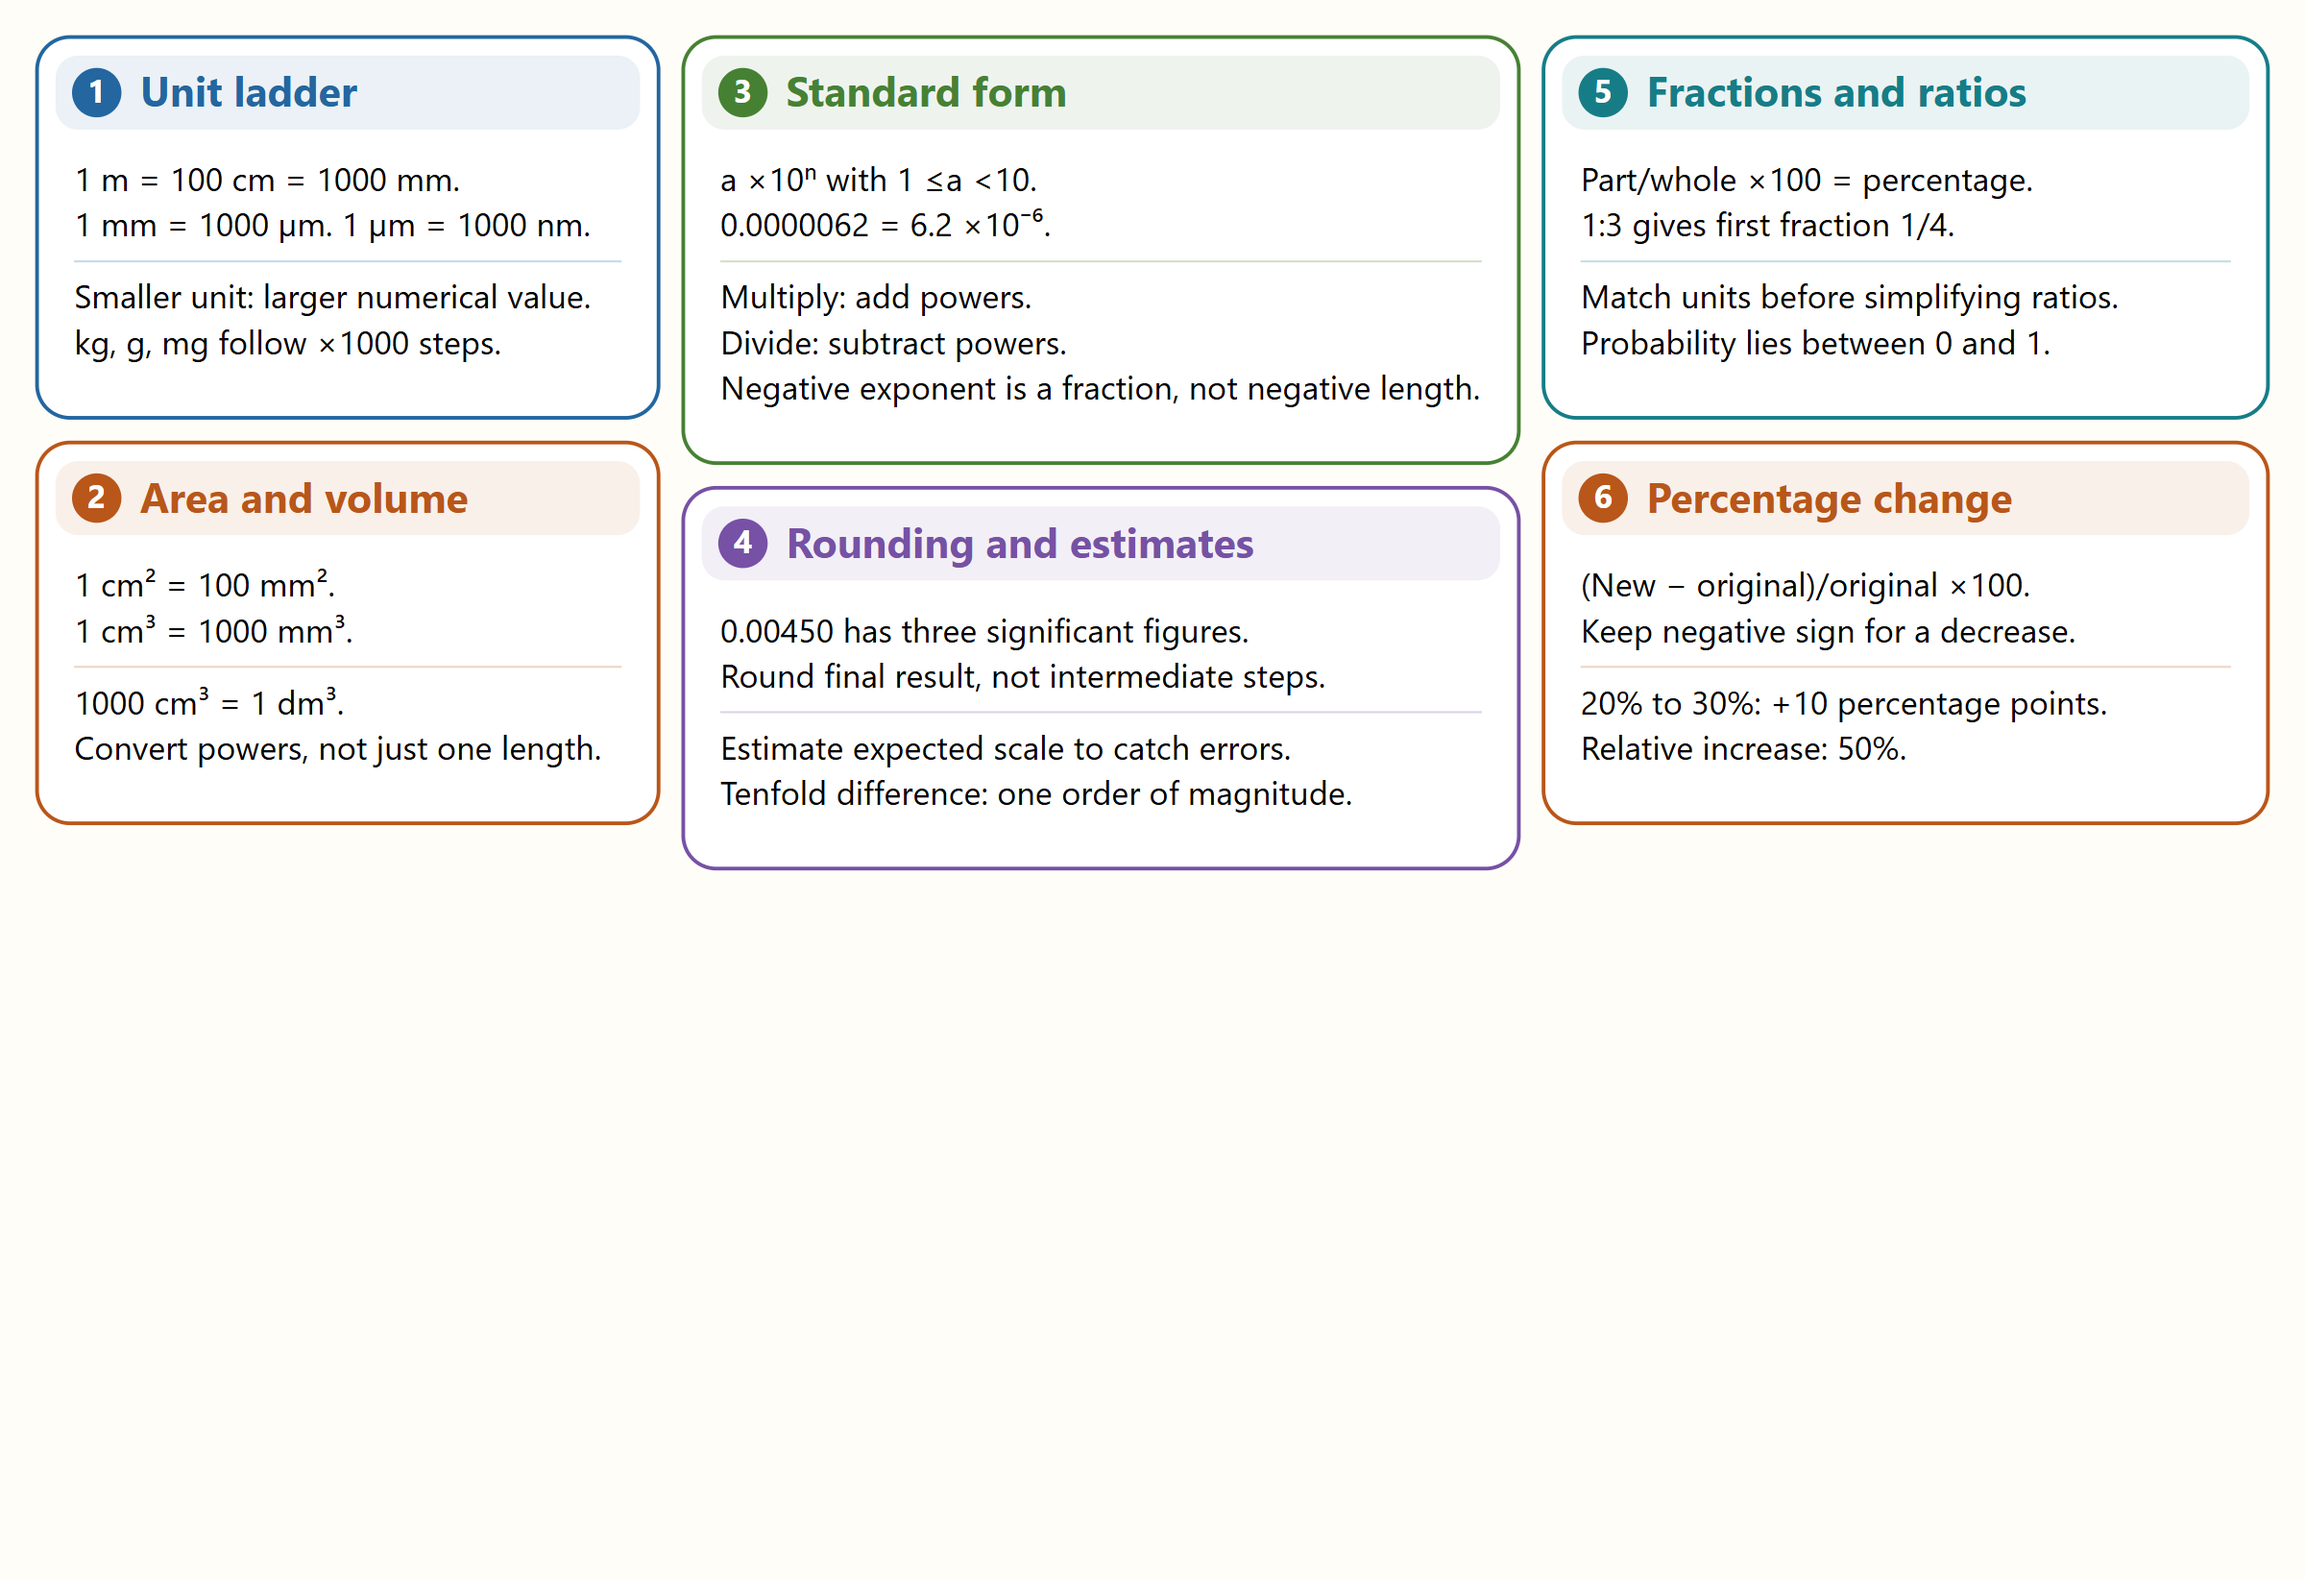
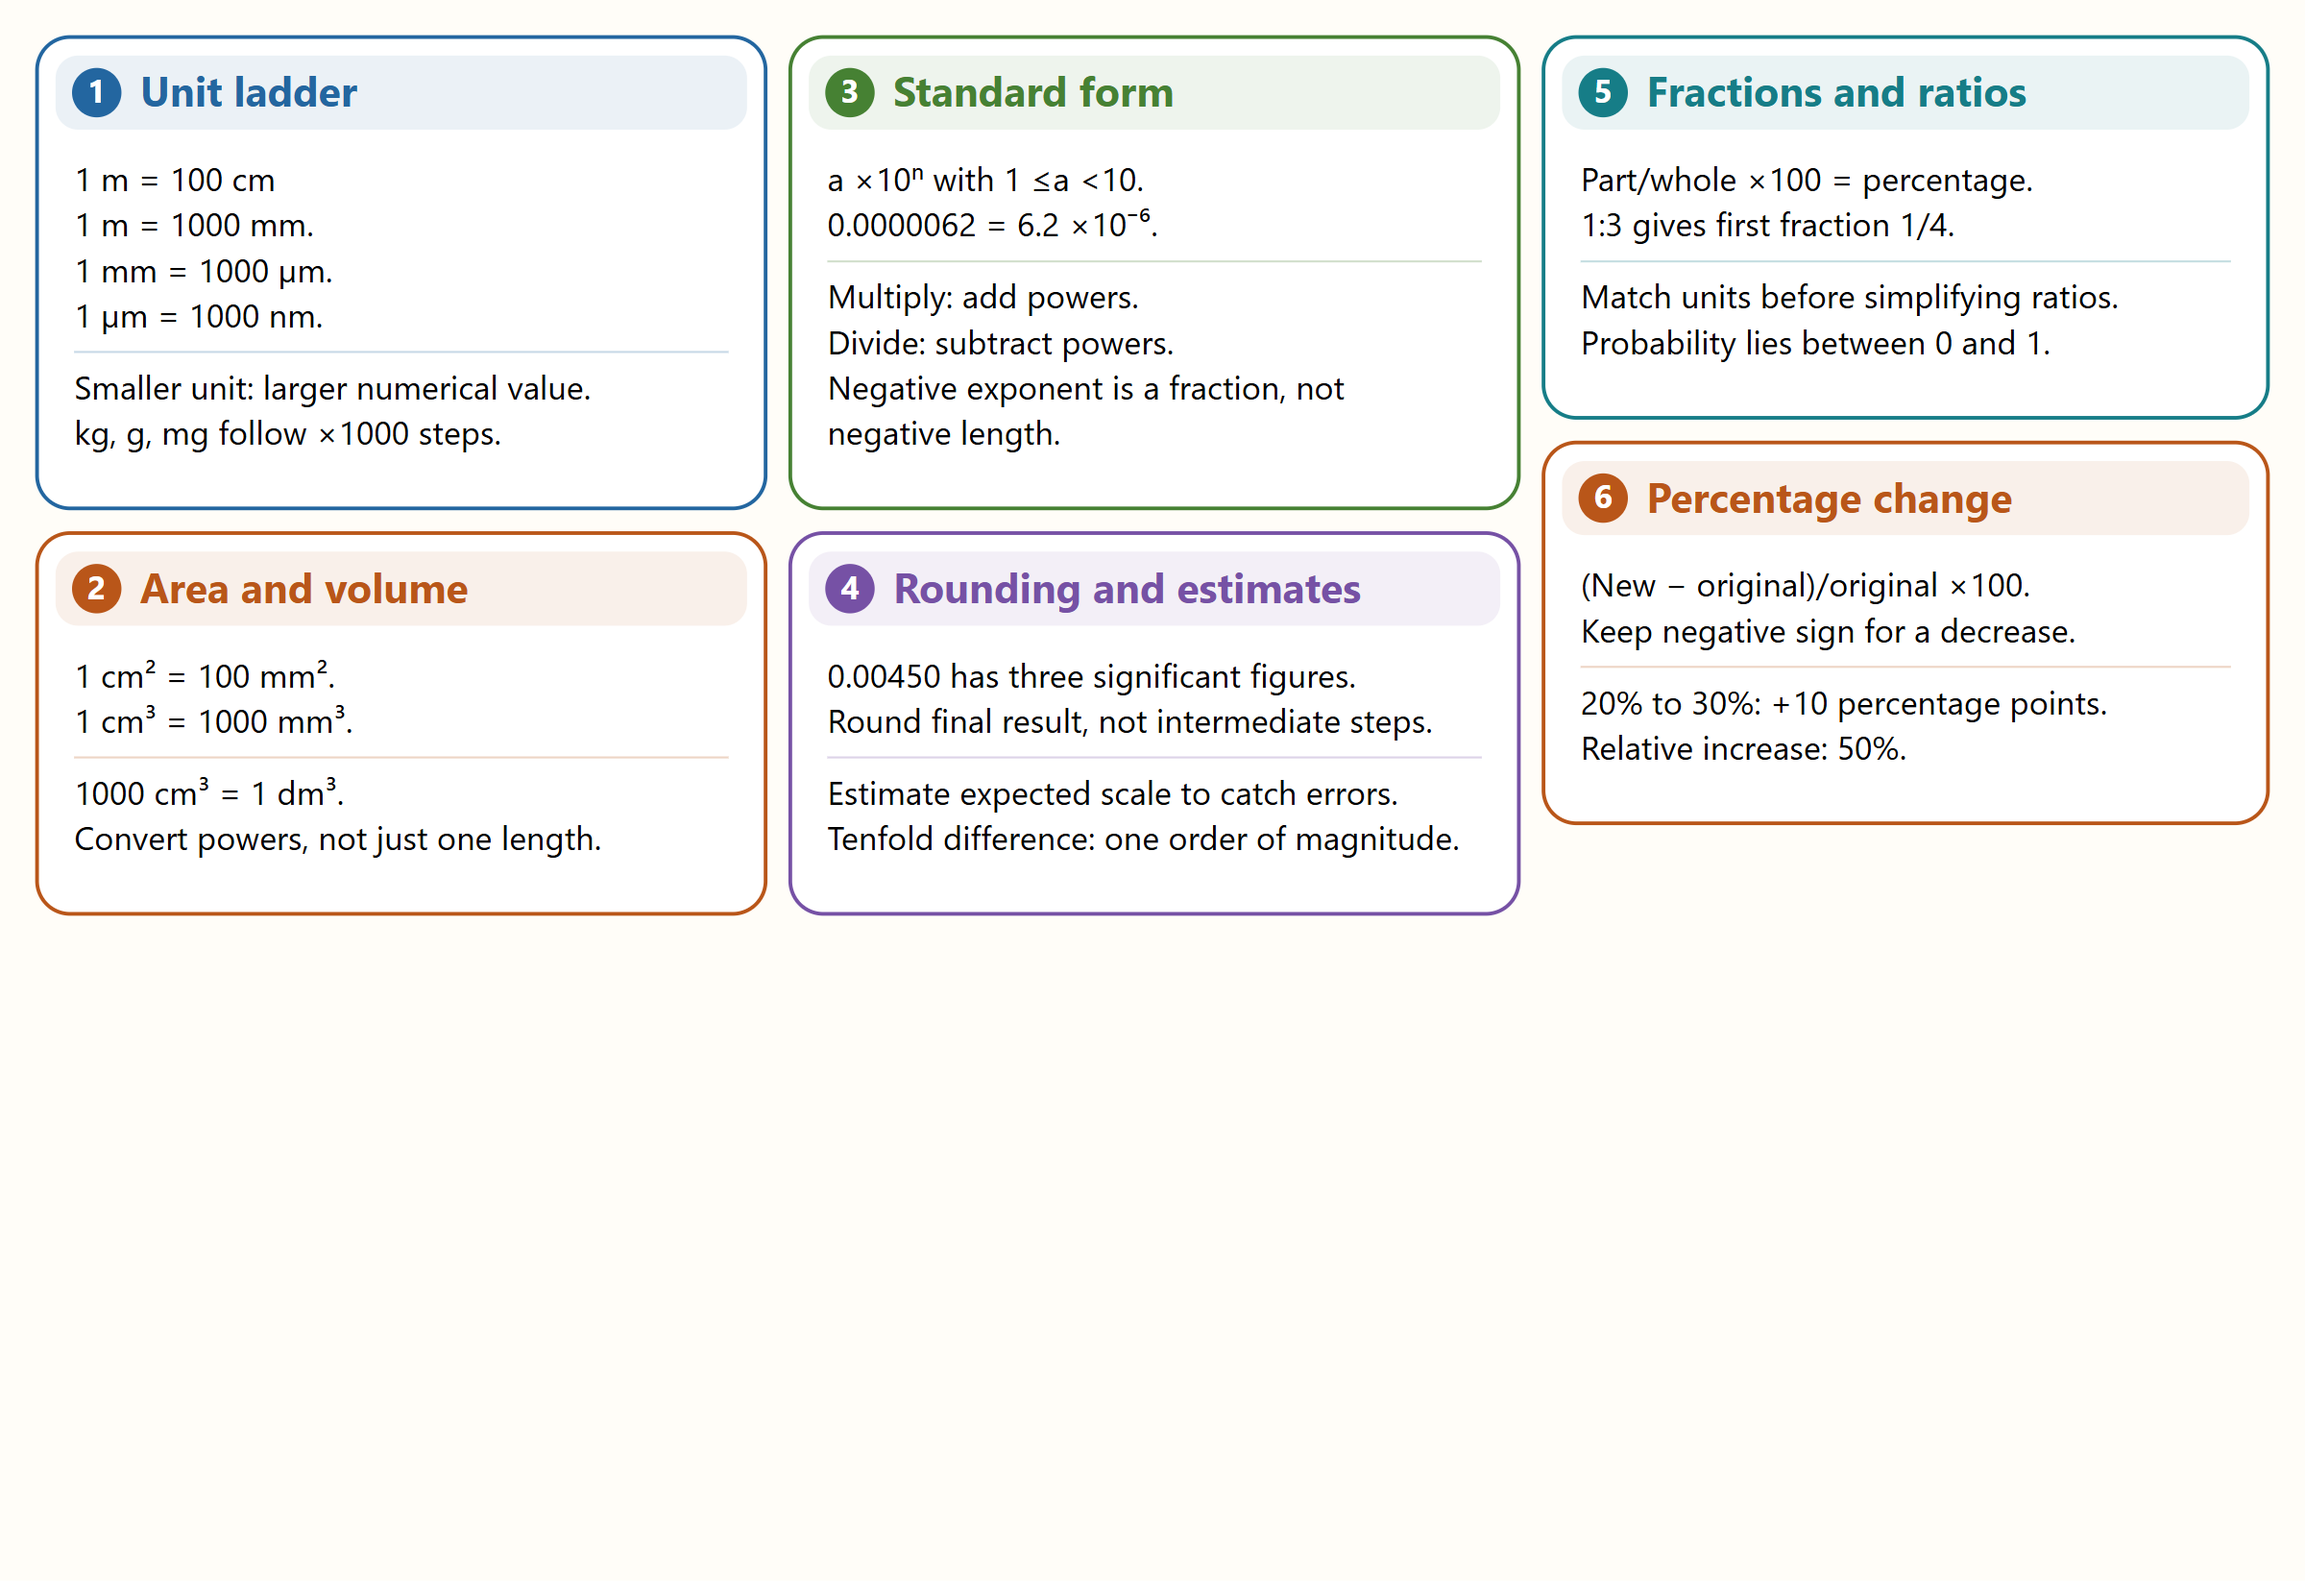
fix: review biology 09 mind-map equation layouts

Changed region(s): [[0.0, 0.0, 0.6562, 0.5887]]

diff --git a/library/resources/biology-aqa-mathematical-requirements-02-calculations-and-inheritance.html b/library/resources/biology-aqa-mathematical-requirements-02-calculations-and-inheritance.html
@@ -1,6 +1,7 @@
 <!doctype html><html lang="en"><head><meta charset="utf-8"><meta name="viewport" content="width=device-width, initial-scale=1"><title>Calculations and inheritance mind map · Study Buddy</title><link rel="stylesheet" href="../style.css"><link rel="stylesheet" href="../mindmaps.css"><script defer src="../mindmaps.js"></script></head><body class="inner-page subject-biology"><a class="skip" href="#main">Skip to content</a><header><a class="brand" href="../../index.html"><span class="brand-mark">G</span><span class="brand-name">Study Buddy</span></a><span class="exam">Summer 2027</span></header><div class="layout"><aside><p class="eyebrow">YOUR SUBJECTS</p><nav aria-label="Subjects"><a class="" href="../../Computer%20Science%20-%20AQA/index.html">Computer Science</a><a class="" href="../../English%20Language%20-%20Eduqas/index.html">English Language</a><a class="" href="../../English%20Literature%20-%20Eduqas/index.html">English Literature</a><a class="" href="../../Maths%20-%20Edexcel/index.html">Maths</a><a class="" href="../../Geography%20-%20OCR%20A/index.html">Geography</a><a class="" href="../../French%20-%20AQA/index.html">French</a><a class="selected" href="../../Biology%20-%20AQA/index.html">Biology</a><a class="" href="../../Chemistry%20-%20AQA/index.html">Chemistry</a><a class="" href="../../Physics%20-%20AQA/index.html">Physics</a></nav><p class="side-note">Build understanding.<br>Practise precise answers.</p></aside><main id="main"><nav class="breadcrumbs" aria-label="Breadcrumb"><a href="../../index.html">Subjects</a><span aria-hidden="true"> / </span><a href="../../Biology%20-%20AQA/index.html">Biology</a><span aria-hidden="true"> / </span><a href="../../Biology%20-%20AQA/09%20-%20Mathematical%20requirements/index.html">Mathematical requirements</a><span aria-hidden="true"> / </span><a href="biology-aqa-mathematical-requirements-mind-maps.html">Mind maps</a></nav><div class="reader-tools"><a href="biology-aqa-mathematical-requirements-mind-maps.html">← Back to mind maps</a><button onclick="window.print()">Print</button></div><h1>Calculations and inheritance</h1><button type="button" class="mindmap-open" data-mindmap-index="2">Open full screen</button><figure class="mindmap-view"><img src="../../Biology%20-%20AQA/09%20-%20Mathematical%20requirements/Mind%20Maps/02-calculations-and-inheritance.svg" alt="Calculations and inheritance revision map"></figure><details class="mindmap-text" id="text-version"><summary>Text version</summary><article class="reading"><h1>Magnification, rates and inheritance</h1>
 <h2>Image sizes</h2>
-<p>M = image/actual. Actual = image/M.</p>
+<p>M = image/actual.</p>
+<p>Actual = image/M.</p>
 <p>Use same unit for both sizes.</p>
 <p>36 mm at ×600: 60 µm actual.</p>
 <p>Magnification has no unit.</p>
@@ -10,7 +11,8 @@
 <p>Actual cell = 18 µm.</p>
 <p>Resizing preserves ratios when bar resizes too.</p>
 <h2>Rate calculations</h2>
-<p>Change/time; state time basis.</p>
+<p>Change/time</p>
+<p>state time basis.</p>
 <p>12 cm³ in 4 min: 3 cm³ min⁻¹.</p>
 <p>Same-endpoint rate proxy: 1/time.</p>
 <p>25 s gives 0.040 s⁻¹.</p>

diff --git a/library/resources/biology-aqa-mathematical-requirements-01-units-and-proportions.html b/library/resources/biology-aqa-mathematical-requirements-01-units-and-proportions.html
@@ -1,7 +1,9 @@
 <!doctype html><html lang="en"><head><meta charset="utf-8"><meta name="viewport" content="width=device-width, initial-scale=1"><title>Units and proportions mind map · Study Buddy</title><link rel="stylesheet" href="../style.css"><link rel="stylesheet" href="../mindmaps.css"><script defer src="../mindmaps.js"></script></head><body class="inner-page subject-biology"><a class="skip" href="#main">Skip to content</a><header><a class="brand" href="../../index.html"><span class="brand-mark">G</span><span class="brand-name">Study Buddy</span></a><span class="exam">Summer 2027</span></header><div class="layout"><aside><p class="eyebrow">YOUR SUBJECTS</p><nav aria-label="Subjects"><a class="" href="../../Computer%20Science%20-%20AQA/index.html">Computer Science</a><a class="" href="../../English%20Language%20-%20Eduqas/index.html">English Language</a><a class="" href="../../English%20Literature%20-%20Eduqas/index.html">English Literature</a><a class="" href="../../Maths%20-%20Edexcel/index.html">Maths</a><a class="" href="../../Geography%20-%20OCR%20A/index.html">Geography</a><a class="" href="../../French%20-%20AQA/index.html">French</a><a class="selected" href="../../Biology%20-%20AQA/index.html">Biology</a><a class="" href="../../Chemistry%20-%20AQA/index.html">Chemistry</a><a class="" href="../../Physics%20-%20AQA/index.html">Physics</a></nav><p class="side-note">Build understanding.<br>Practise precise answers.</p></aside><main id="main"><nav class="breadcrumbs" aria-label="Breadcrumb"><a href="../../index.html">Subjects</a><span aria-hidden="true"> / </span><a href="../../Biology%20-%20AQA/index.html">Biology</a><span aria-hidden="true"> / </span><a href="../../Biology%20-%20AQA/09%20-%20Mathematical%20requirements/index.html">Mathematical requirements</a><span aria-hidden="true"> / </span><a href="biology-aqa-mathematical-requirements-mind-maps.html">Mind maps</a></nav><div class="reader-tools"><a href="biology-aqa-mathematical-requirements-mind-maps.html">← Back to mind maps</a><button onclick="window.print()">Print</button></div><h1>Units and proportions</h1><button type="button" class="mindmap-open" data-mindmap-index="1">Open full screen</button><figure class="mindmap-view"><img src="../../Biology%20-%20AQA/09%20-%20Mathematical%20requirements/Mind%20Maps/01-units-and-proportions.svg" alt="Units and proportions revision map"></figure><details class="mindmap-text" id="text-version"><summary>Text version</summary><article class="reading"><h1>Units, standard form and proportions</h1>
 <h2>Unit ladder</h2>
-<p>1 m = 100 cm = 1000 mm.</p>
-<p>1 mm = 1000 µm. 1 µm = 1000 nm.</p>
+<p>1 m = 100 cm</p>
+<p>1 m = 1000 mm.</p>
+<p>1 mm = 1000 µm.</p>
+<p>1 µm = 1000 nm.</p>
 <p>Smaller unit: larger numerical value.</p>
 <p>kg, g, mg follow ×1000 steps.</p>
 <h2>Area and volume</h2>

diff --git a/library/resources/biology-aqa-mathematical-requirements-00-biology-maths-overview.html b/library/resources/biology-aqa-mathematical-requirements-00-biology-maths-overview.html
@@ -11,7 +11,8 @@
 <p>Check percentage points versus relative change.</p>
 <h2>Magnification and rates</h2>
 <p>Magnification = image/actual size.</p>
-<p>Rate = change/time. Same-endpoint proxy = 1/time.</p>
+<p>Rate = change/time.</p>
+<p>Same-endpoint proxy = 1/time.</p>
 <p>Efficiency = next/previous biomass ×100.</p>
 <p>Light intensity ∝ 1/distance² in suitable model.</p>
 <h2>Probability and data</h2>

diff --git a/library/resources/biology-aqa-mathematical-requirements-03-data-graphs-and-algebra.html b/library/resources/biology-aqa-mathematical-requirements-03-data-graphs-and-algebra.html
@@ -20,7 +20,9 @@
 <p>Interpolate within measured range.</p>
 <p>Extrapolation beyond range is less secure.</p>
 <h2>Gradient and intercept</h2>
-<p>y = mx+c. m = Δy/Δx, c at x=0.</p>
+<p>y = mx+c.</p>
+<p>m = Δy/Δx</p>
+<p>c at x=0.</p>
 <p>Large triangle on best-fit line.</p>
 <p>Tangent at specified point gives instantaneous rate.</p>
 <p>A chord gives an interval average.</p>

diff --git a/library/resources/biology-aqa-mathematical-requirements-04-geometry-and-exchange.html b/library/resources/biology-aqa-mathematical-requirements-04-geometry-and-exchange.html
@@ -17,7 +17,8 @@
 <p>Large organisms need specialised exchange/transport.</p>
 <p>Total surface area is not the ratio.</p>
 <h2>Circles and zones</h2>
-<p>Radius = diameter/2. Area = πr².</p>
+<p>Radius = diameter/2.</p>
+<p>Area = πr².</p>
 <p>12 mm diameter: about 113 mm².</p>
 <p>Subtract disc area only if requested.</p>
 <p>Use squared length units.</p>

diff --git a/Biology - AQA/09 - Mathematical requirements/Mind Maps/02-calculations-and-inheritance.md b/Biology - AQA/09 - Mathematical requirements/Mind Maps/02-calculations-and-inheritance.md
@@ -2,7 +2,9 @@
 
 ## Image sizes
 
-M = image/actual. Actual = image/M.
+M = image/actual.
+
+Actual = image/M.
 
 Use same unit for both sizes.
 
@@ -22,7 +24,9 @@ Resizing preserves ratios when bar resizes too.
 
 ## Rate calculations
 
-Change/time; state time basis.
+Change/time
+
+state time basis.
 
 12 cm³ in 4 min: 3 cm³ min⁻¹.
 

diff --git a/Biology - AQA/09 - Mathematical requirements/Mind Maps/00-biology-maths-overview.md b/Biology - AQA/09 - Mathematical requirements/Mind Maps/00-biology-maths-overview.md
@@ -24,7 +24,9 @@ Check percentage points versus relative change.
 
 Magnification = image/actual size.
 
-Rate = change/time. Same-endpoint proxy = 1/time.
+Rate = change/time.
+
+Same-endpoint proxy = 1/time.
 
 Efficiency = next/previous biomass ×100.
 

diff --git a/Biology - AQA/09 - Mathematical requirements/Mind Maps/01-units-and-proportions.md b/Biology - AQA/09 - Mathematical requirements/Mind Maps/01-units-and-proportions.md
@@ -2,9 +2,13 @@
 
 ## Unit ladder
 
-1 m = 100 cm = 1000 mm.
+1 m = 100 cm
 
-1 mm = 1000 µm. 1 µm = 1000 nm.
+1 m = 1000 mm.
+
+1 mm = 1000 µm.
+
+1 µm = 1000 nm.
 
 Smaller unit: larger numerical value.
 

diff --git a/Biology - AQA/09 - Mathematical requirements/Mind Maps/03-data-graphs-and-algebra.md b/Biology - AQA/09 - Mathematical requirements/Mind Maps/03-data-graphs-and-algebra.md
@@ -42,7 +42,11 @@ Extrapolation beyond range is less secure.
 
 ## Gradient and intercept
 
-y = mx+c. m = Δy/Δx, c at x=0.
+y = mx+c.
+
+m = Δy/Δx
+
+c at x=0.
 
 Large triangle on best-fit line.
 

diff --git a/Biology - AQA/09 - Mathematical requirements/Mind Maps/04-geometry-and-exchange.md b/Biology - AQA/09 - Mathematical requirements/Mind Maps/04-geometry-and-exchange.md
@@ -36,7 +36,9 @@ Total surface area is not the ratio.
 
 ## Circles and zones
 
-Radius = diameter/2. Area = πr².
+Radius = diameter/2.
+
+Area = πr².
 
 12 mm diameter: about 113 mm².
 
